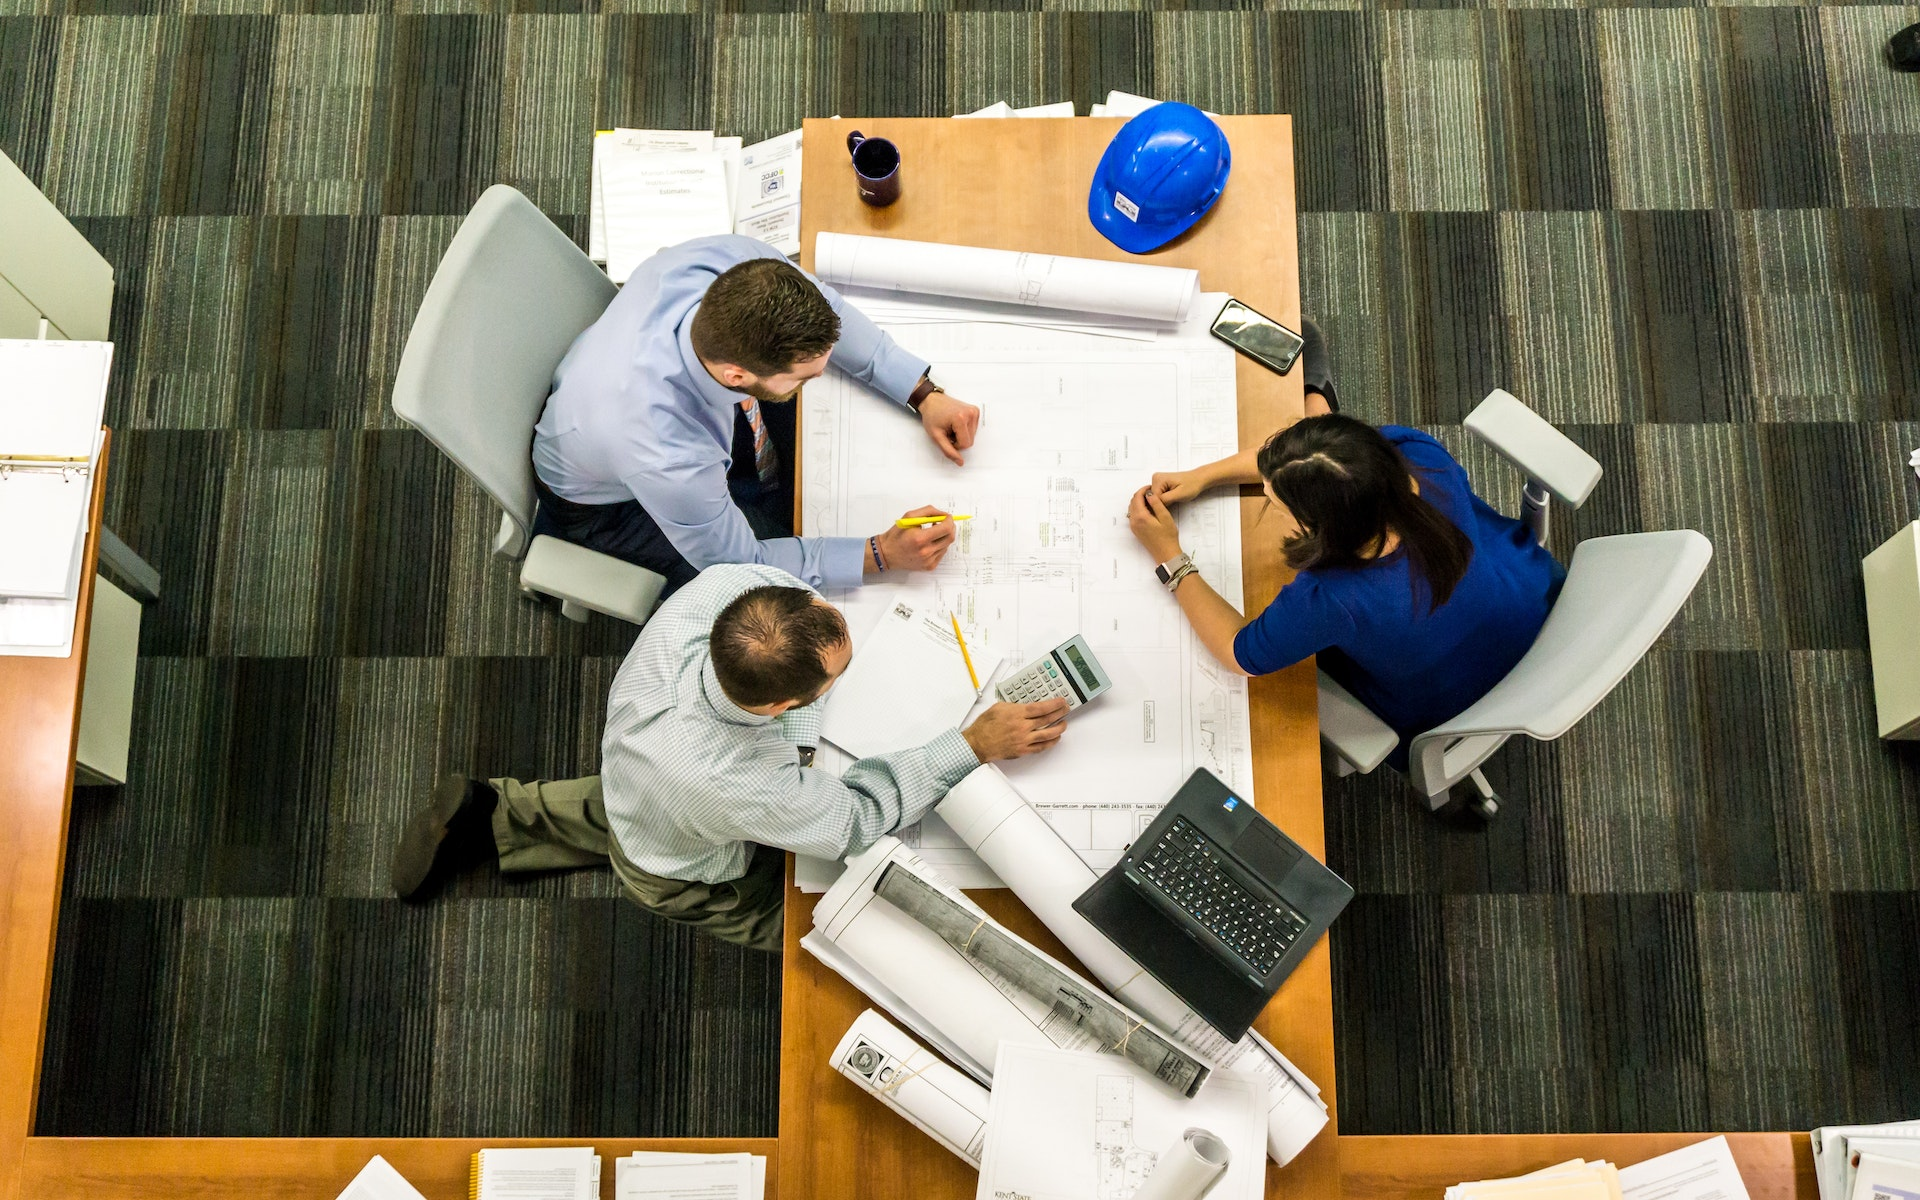
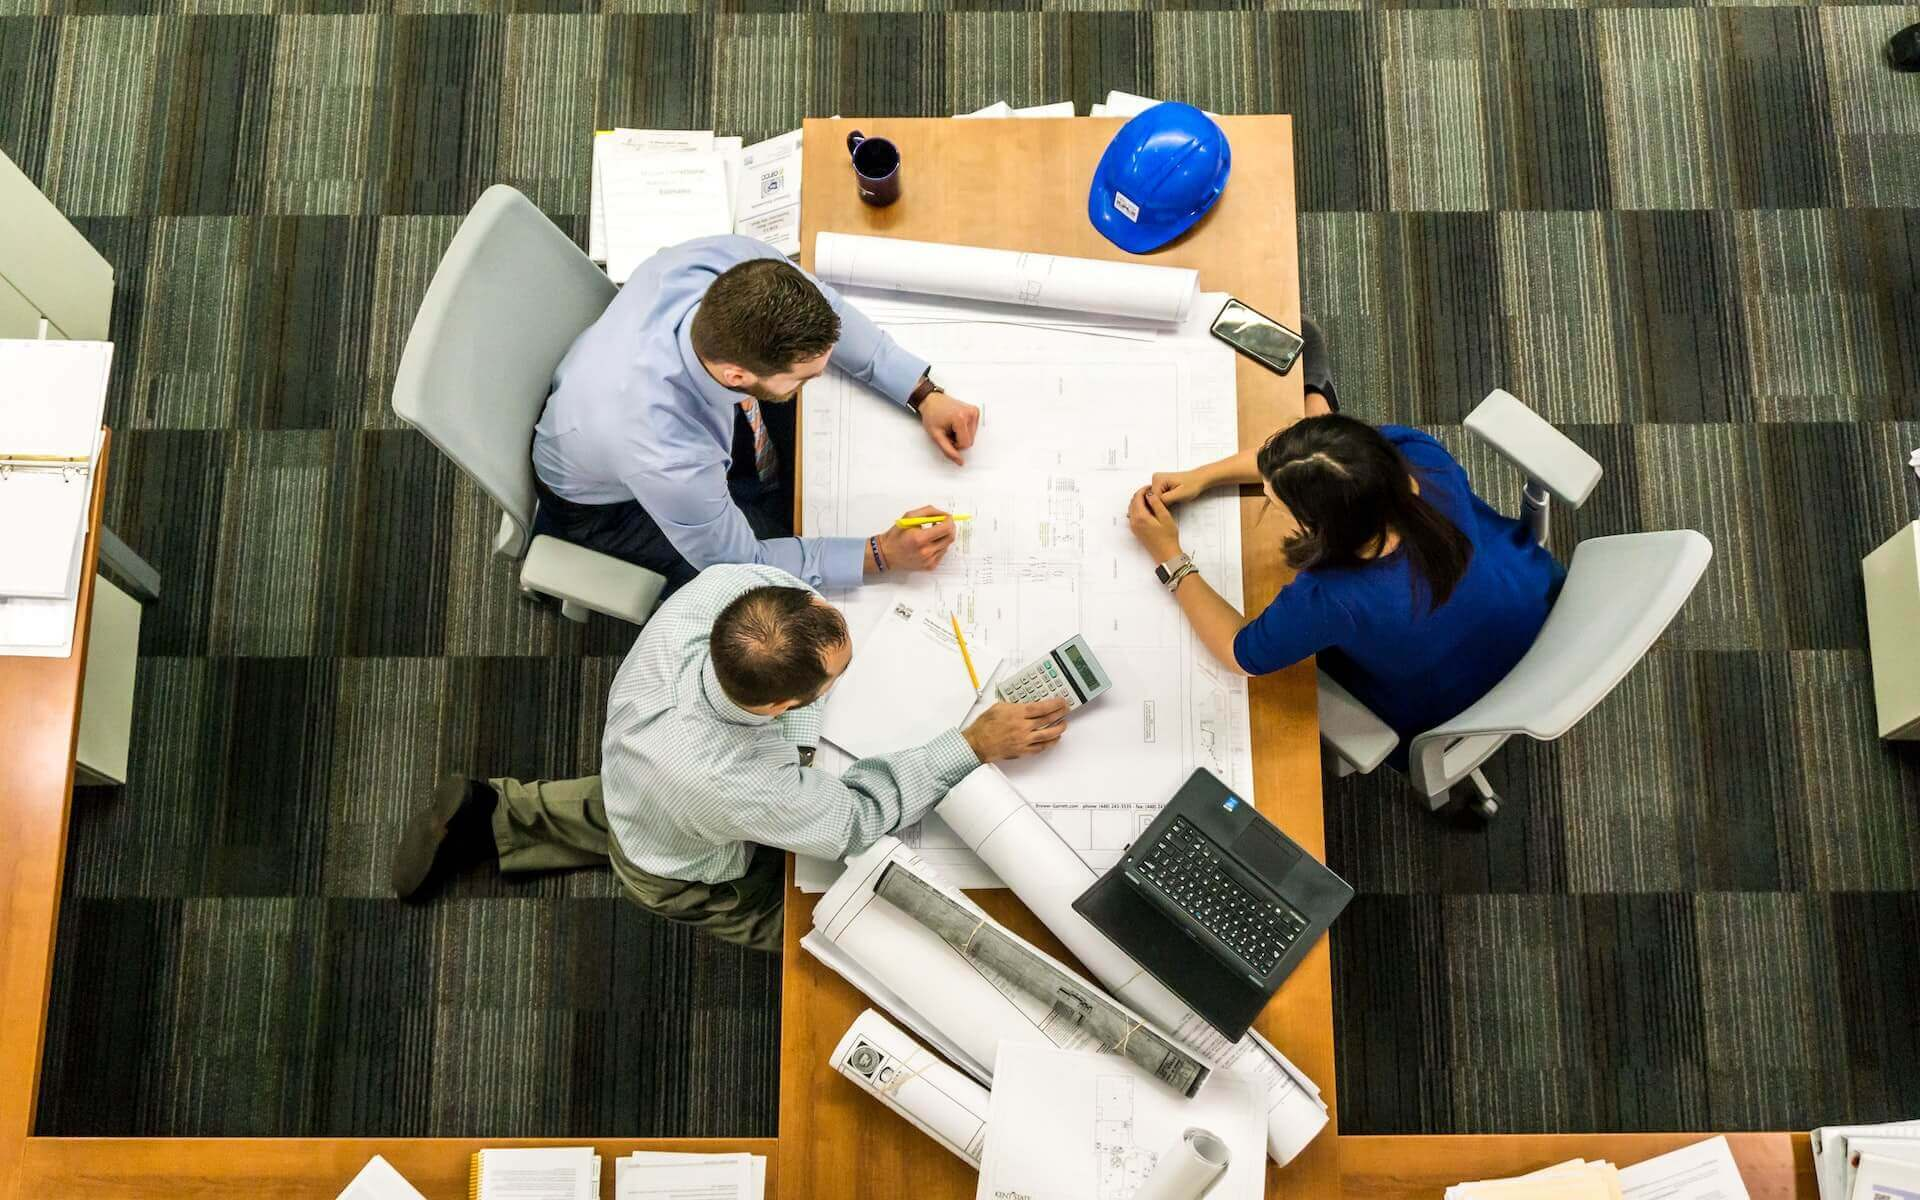
add webp photos

Changed region(s): [[0.5625, 0.1542, 0.5938, 0.185]]

diff --git a/src/styles/header.scss b/src/styles/header.scss
@@ -36,7 +36,7 @@
     background-color: $secondary;
     color: #fff;
     border-radius: 0 0 25px 25px;
-    transition: all ease-in-out 0.5s;
+    transition: all ease-in-out 0.8s;
 
     a {
       transition: color ease-in-out 0.2s;
@@ -136,18 +136,3 @@
     display: none;
   }
 }
-
-// @media screen and (max-height: 915px) {
-//   .header {
-//     .toggler:checked ~ .menu {
-//       // height: 80vh;
-//     }
-//   }
-// }
-// @media screen and (max-height: 500px) {
-//   .header {
-//     .toggler:checked ~ .menu {
-//       height: 100vh;
-//     }
-//   }
-// }

diff --git a/src/content/projects/8-QuarryParkCrossing.md b/src/content/projects/8-QuarryParkCrossing.md
@@ -3,7 +3,7 @@ title: Quarry Park Crossing Phase 1 & 2
 slug: quarry-park-crossing-phase-1-2
 client: Remington Developement Corp.
 location: Quary Park, Calgary
-image: /assets/projects/original/qpCrossing.png
+image: /assets/projects/webp/qpCrossing.webp
 featured: false
 completed: true
 ---

diff --git a/src/content/projects/4-Dalhousie.md b/src/content/projects/4-Dalhousie.md
@@ -3,7 +3,7 @@ title: Dalhousie Mixed Use
 slug: dalhousie-mixed-use
 client: Remington Developement Corp.
 location: Dalhousie, Calgary
-image: /assets/projects/original/dalhousie.jpeg
+image: /assets/projects/webp/dalhousie.webp
 featured: false
 completed: false
 ---

diff --git a/src/content/projects/3-FrontStreetMedical.md b/src/content/projects/3-FrontStreetMedical.md
@@ -3,7 +3,7 @@ title: Front Street Medical
 slug: front-street-medical
 client: Bird Construction
 location: Calgary
-image: /assets/projects/original/FrontStreetMedical.png
+image: /assets/projects/webp/FrontStreetMedical.webp
 featured: true
 completed: true
 ---

diff --git a/src/content/projects/2-QuaryPark.md b/src/content/projects/2-QuaryPark.md
@@ -4,7 +4,7 @@ SecondaryTitle: South Campus
 slug: quary-park-south-campus
 client: Remington Development
 location: Quarry Park, Calgary
-image: /assets/projects/original/QP1revised.png
+image: /assets/projects/webp/QP1.webp
 featured: true
 completed: true
 ---

diff --git a/src/content/projects/13-ShawMillenium.md b/src/content/projects/13-ShawMillenium.md
@@ -3,7 +3,7 @@ title: Shaw Millenium Park
 slug: shaw-millenium-park
 client: Ellisdon
 location: Downtown, Calgary
-image: /assets/projects/original/shawMillenium.png
+image: /assets/projects/webp/shawMillenium.webp
 featured: false
 completed: true
 ---

diff --git a/src/content/projects/9-BrentwoodVillage.md b/src/content/projects/9-BrentwoodVillage.md
@@ -3,7 +3,7 @@ title: Brentwood Village Brio
 slug: brentwood-village-brio
 client: Cana Construction
 location: Calgary
-image: /assets/projects/original/brentwood.jpeg
+image: /assets/projects/webp/brentwood.webp
 featured: false
 completed: true
 ---

diff --git a/src/content/projects/7-KinsglandJunction.md b/src/content/projects/7-KinsglandJunction.md
@@ -3,7 +3,7 @@ title: Kingsland Junction
 slug: kingsland-junction
 client: Trico Homes
 location: Kingsland, Calgary
-image: /assets/projects/original/kingsland.jpeg
+image: /assets/projects/webp/kingsland.webp
 featured: false
 completed: false
 ---

diff --git a/src/content/projects/5-ShawnessyStation.md b/src/content/projects/5-ShawnessyStation.md
@@ -3,7 +3,7 @@ title: Shawnessy Station
 slug: shawnessy-station
 client: Trico Homes
 location: Shawnessy, Calgary
-image: /assets/projects/original/shawnessy.jpeg
+image: /assets/projects/webp/shawnessy.webp
 featured: false
 completed: false
 ---

diff --git a/src/content/projects/12-CMG.md b/src/content/projects/12-CMG.md
@@ -3,7 +3,7 @@ title: CMG (Computer Modelling Group)
 slug: cmg
 client: Remington Development Corp.
 location: Calgary
-image: /assets/projects/original/cmg.png
+image: /assets/projects/webp/cmg.webp
 featured: false
 completed: true
 ---

diff --git a/src/content/projects/11-Meredith.md b/src/content/projects/11-Meredith.md
@@ -3,7 +3,7 @@ title: Meredith
 slug: meredith
 client: Remington Development Corp.
 location: Calgary
-image: /assets/projects/original/meredith.png
+image: /assets/projects/webp/meredith.webp
 featured: false
 completed: true
 ---

diff --git a/src/content/projects/14-YWHub.md b/src/content/projects/14-YWHub.md
@@ -3,7 +3,7 @@ title: YW Hub Facility
 slug: yw-hub-facility
 client: Cana Construction
 location: Calgary
-image: /assets/projects/original/ywhub.jpeg
+image: /assets/projects/webp/ywhub.webp
 featured: false
 completed: true
 ---
